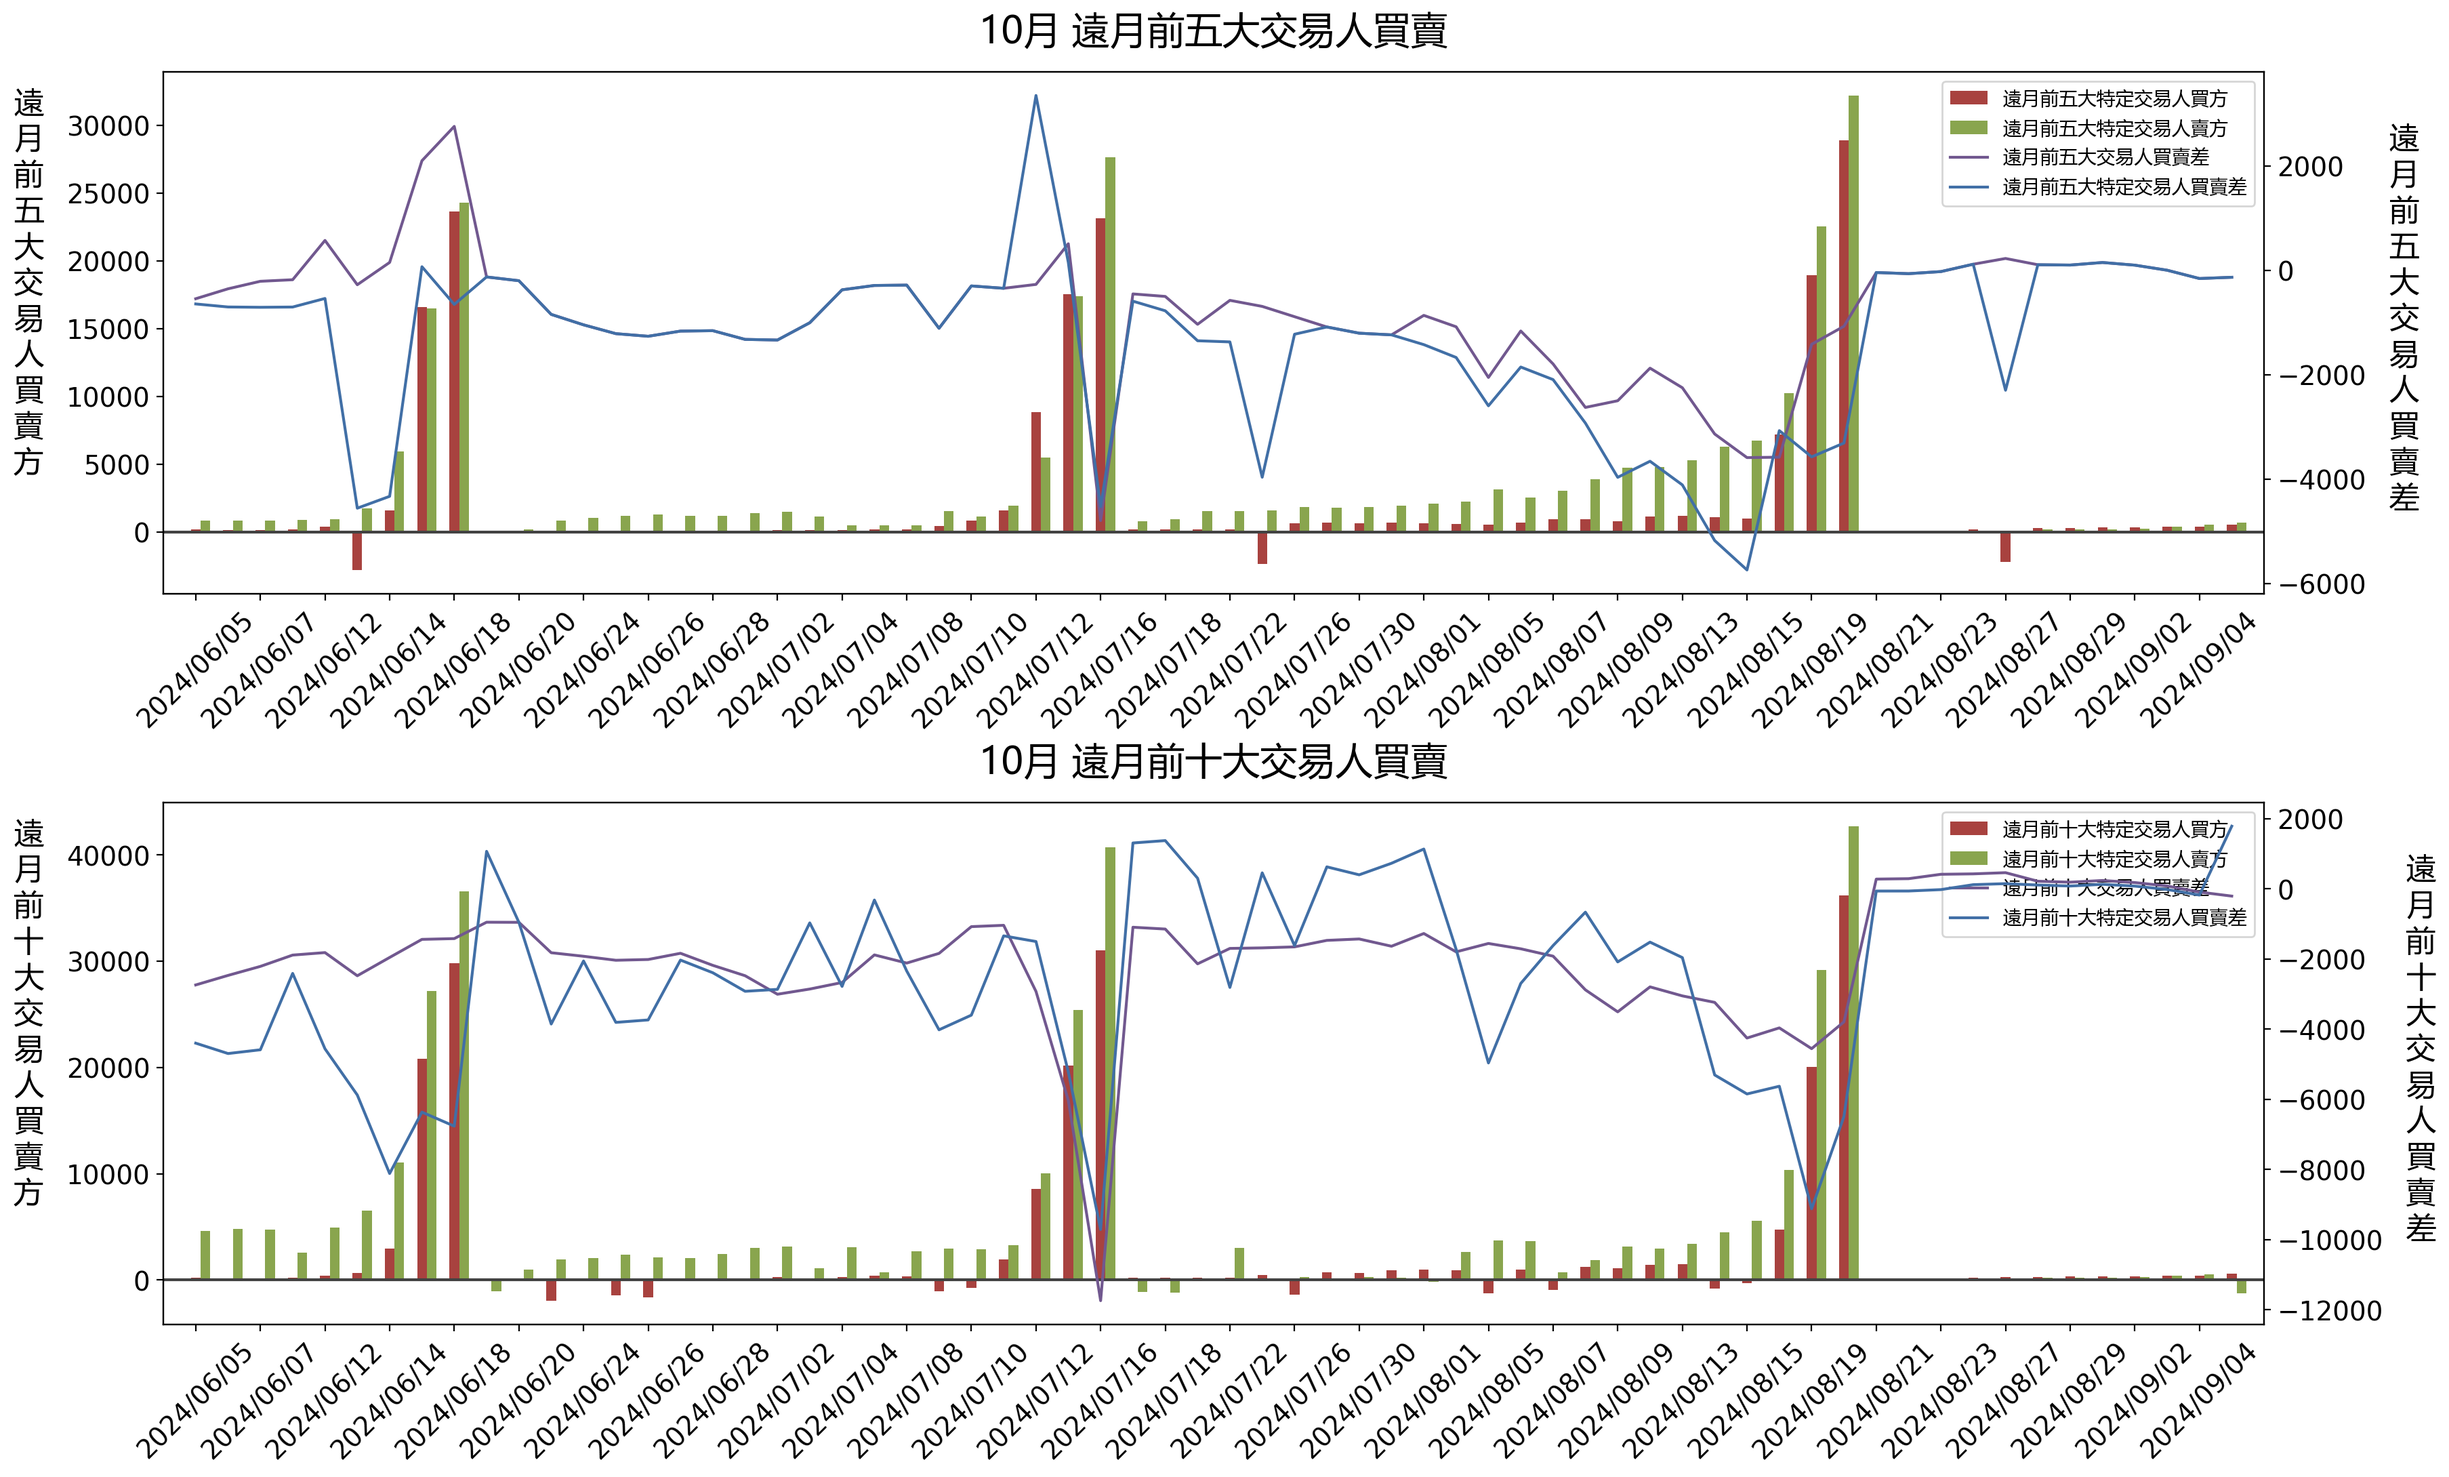
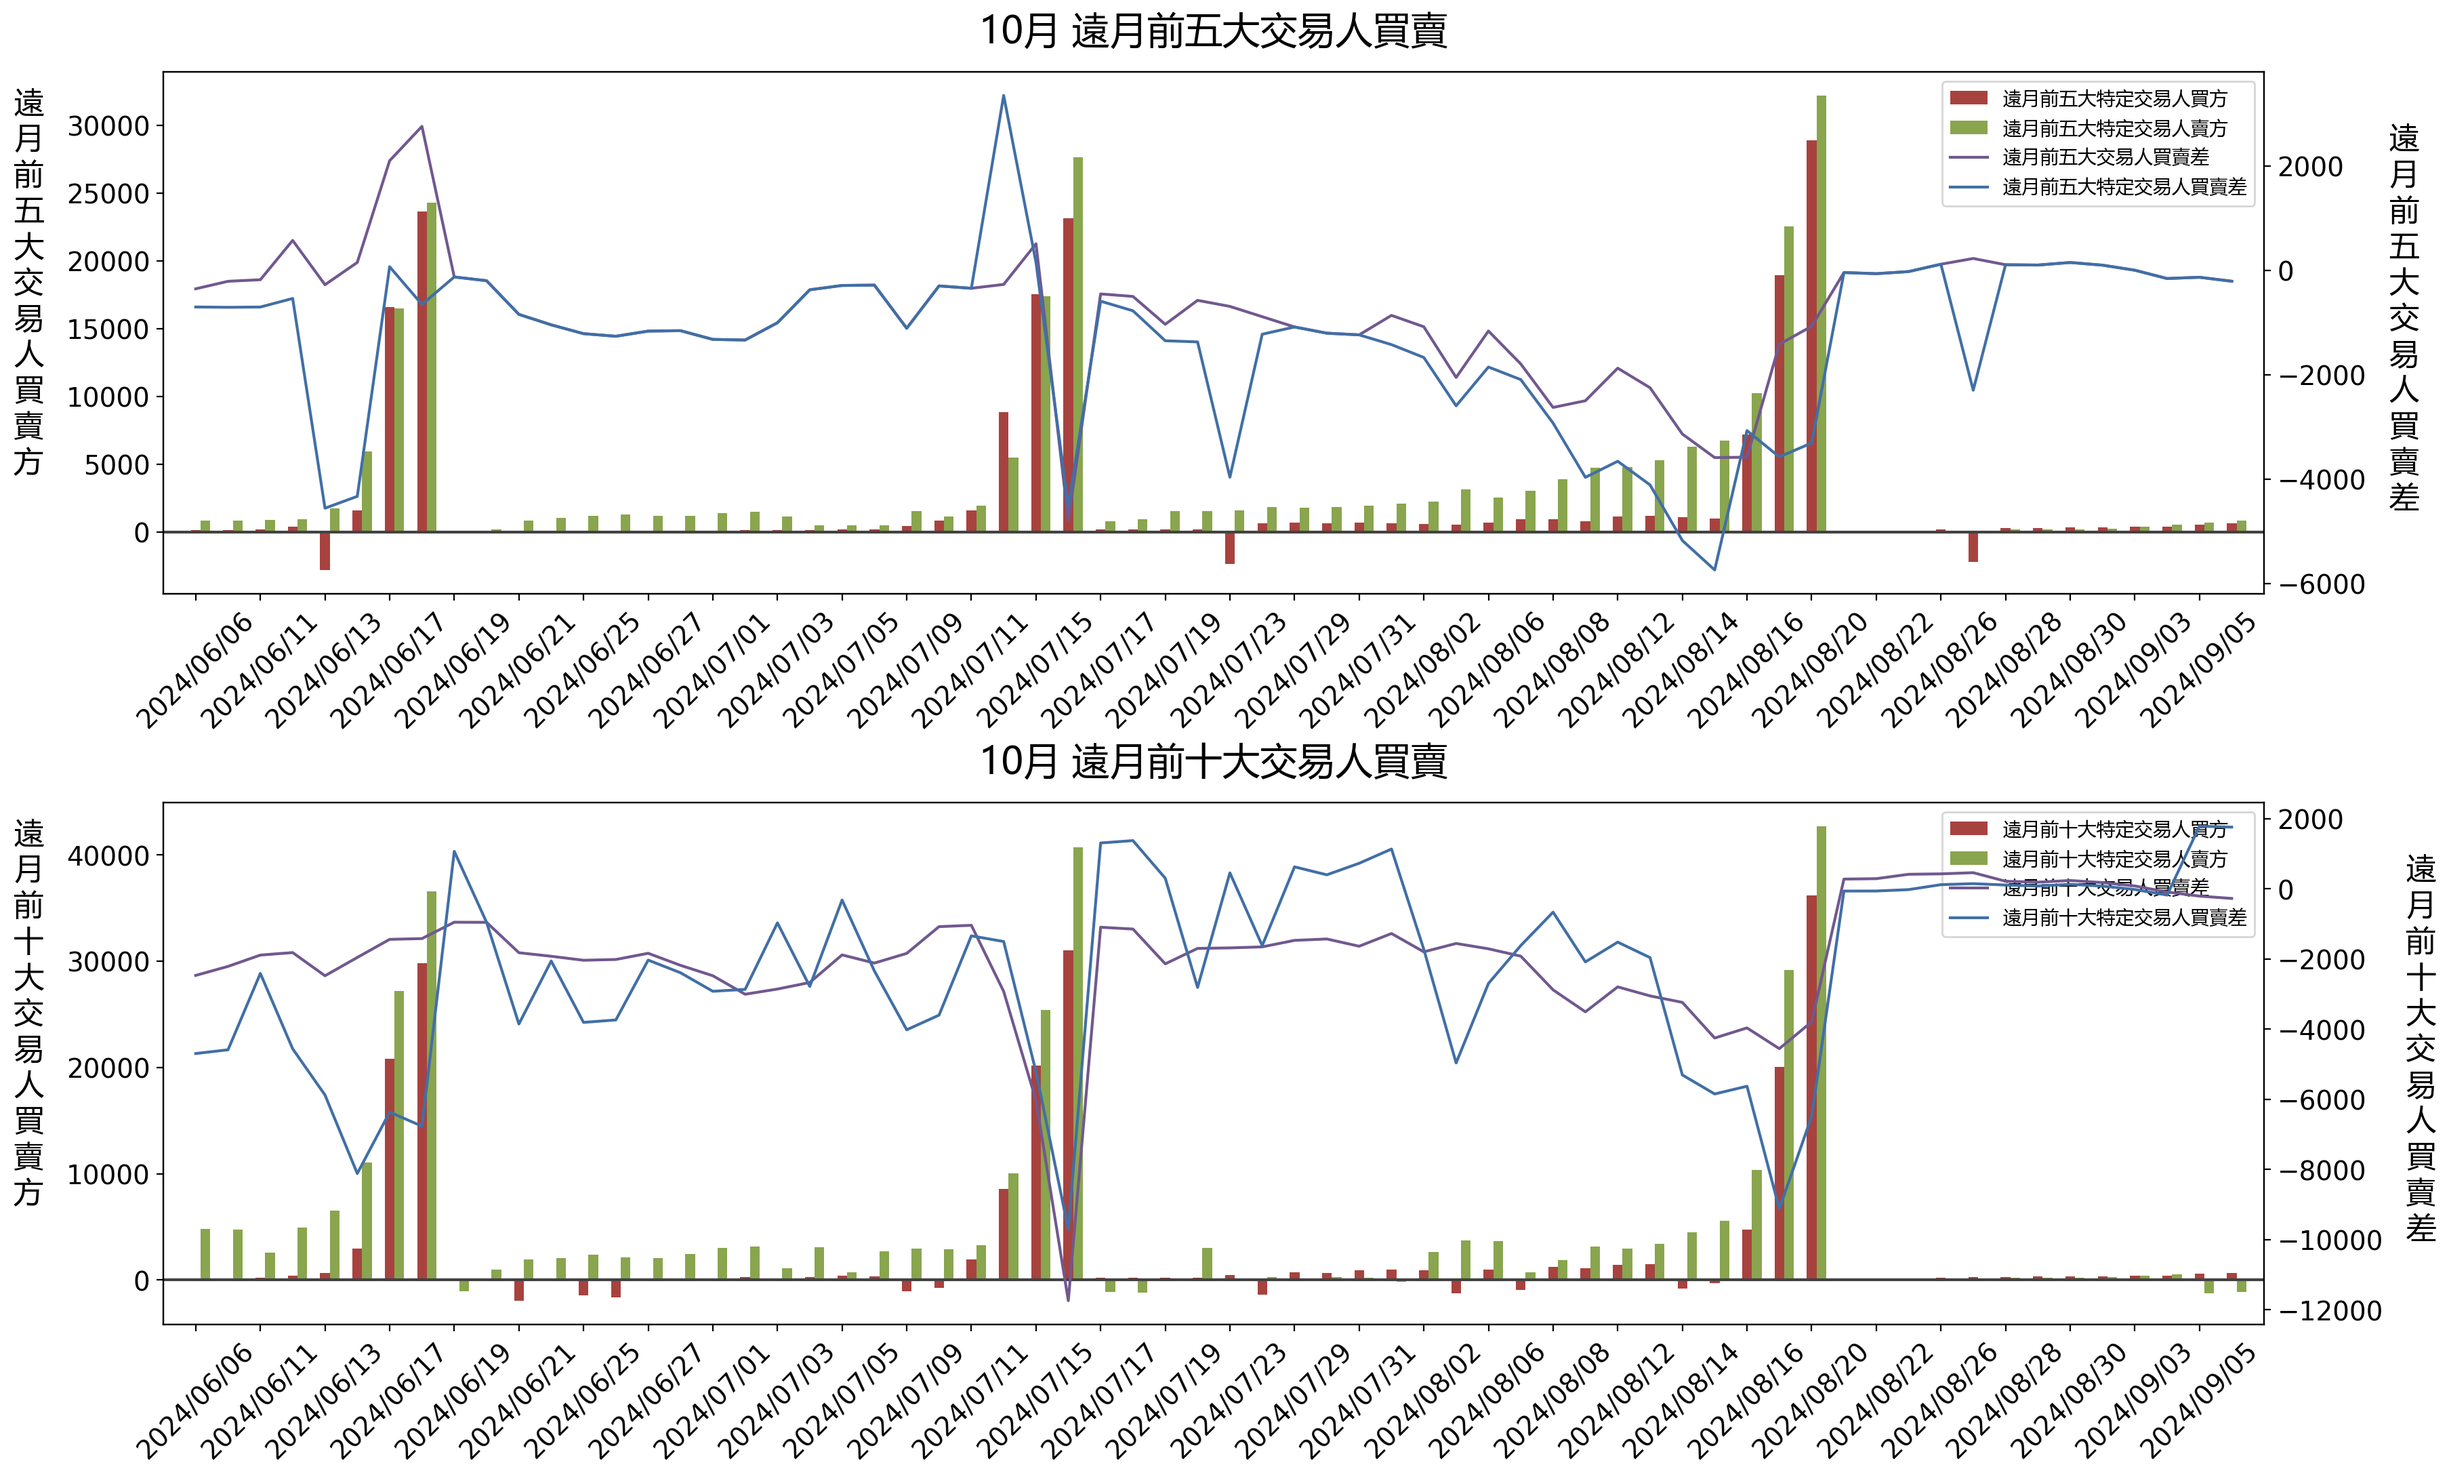
更新時間: Fri Sep  6 16:33:21 CST 2024

diff --git a/README.md b/README.md
@@ -1,12 +1,12 @@
-## 20240905 台指期「預估換倉成本」
+## 20240906 台指期「預估換倉成本」
 ![](images/txfcost.png)
 
-## 20240905 台指期「散戶小台多空比」
+## 20240906 台指期「散戶小台多空比」
 ![](images/bbiri.png)
 
-## 20240905 台指選擇權「Put/Call Ratios」
+## 20240906 台指選擇權「Put/Call Ratios」
 ![](images/pcratio.png)
 
-## 20240905 台指期「大額交易人」
+## 20240906 台指期「大額交易人」
 ![](images/blocktrade.png)
 
